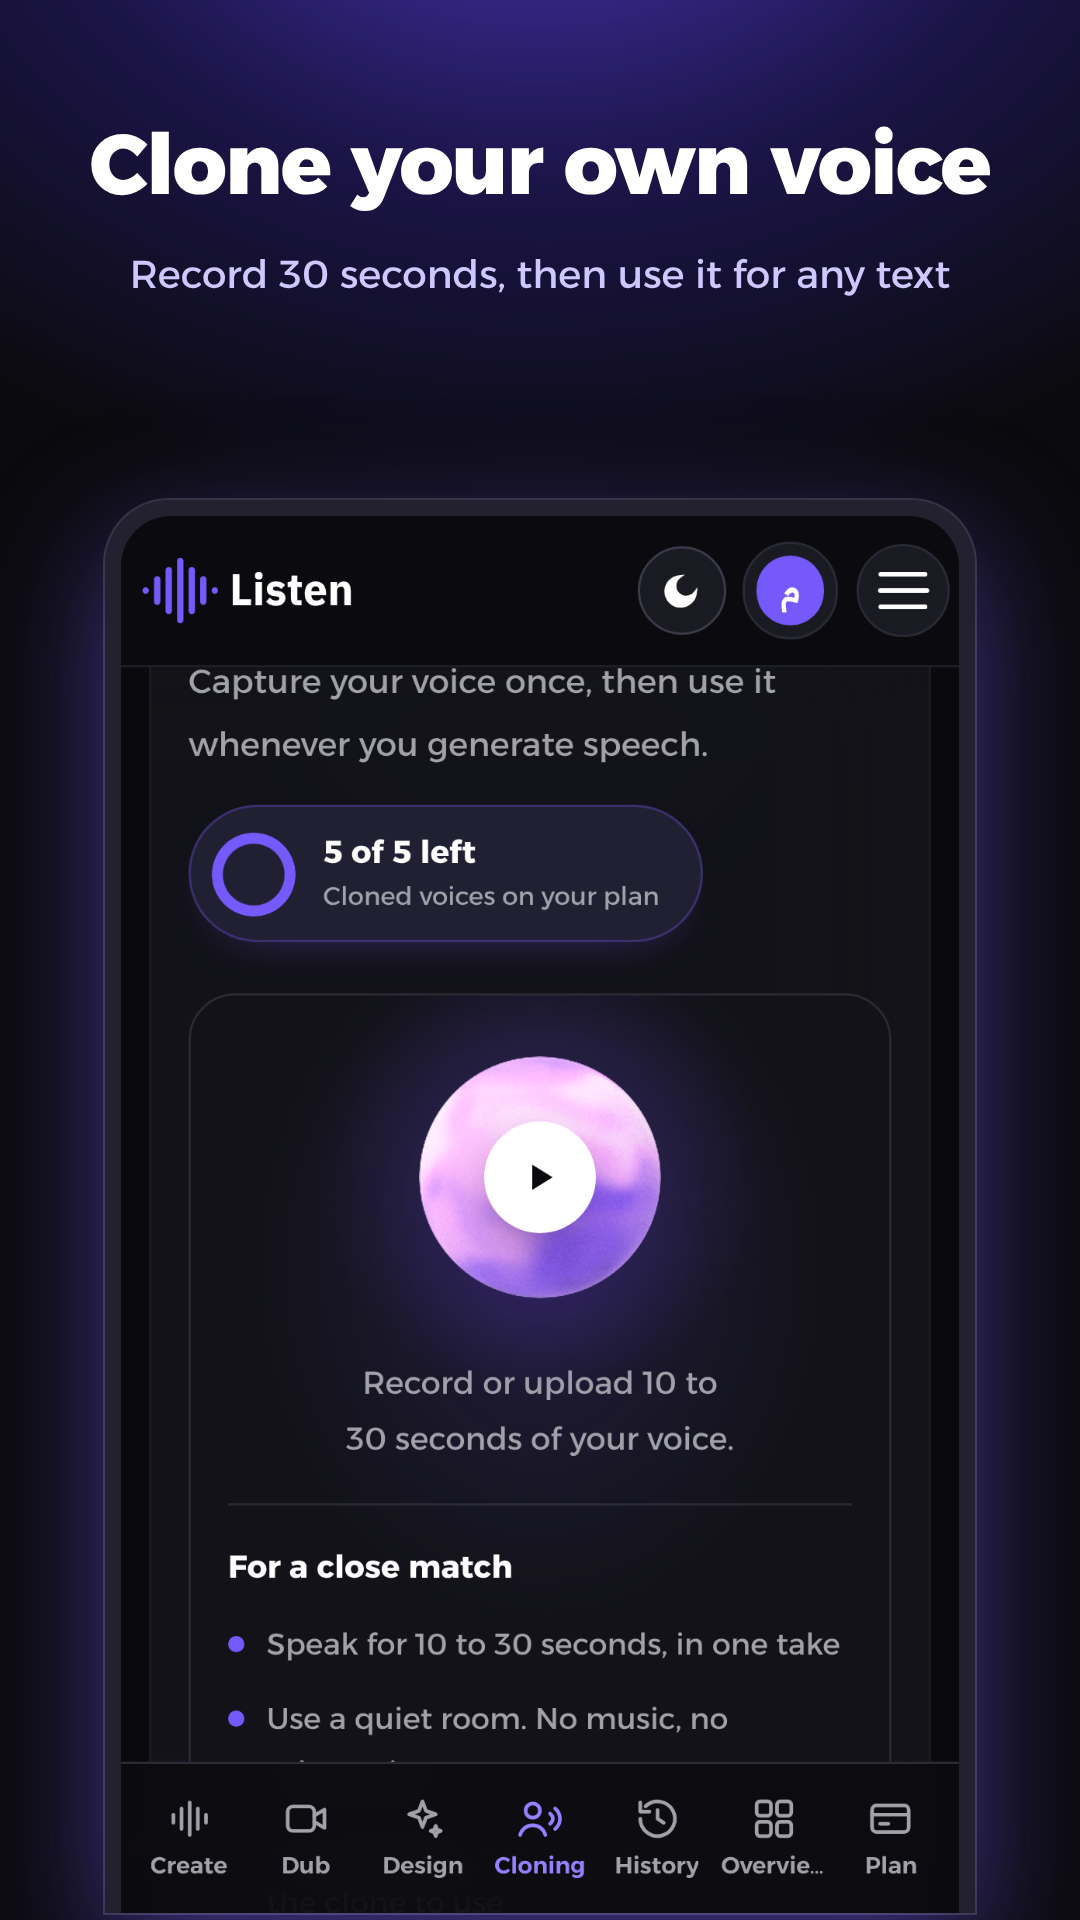
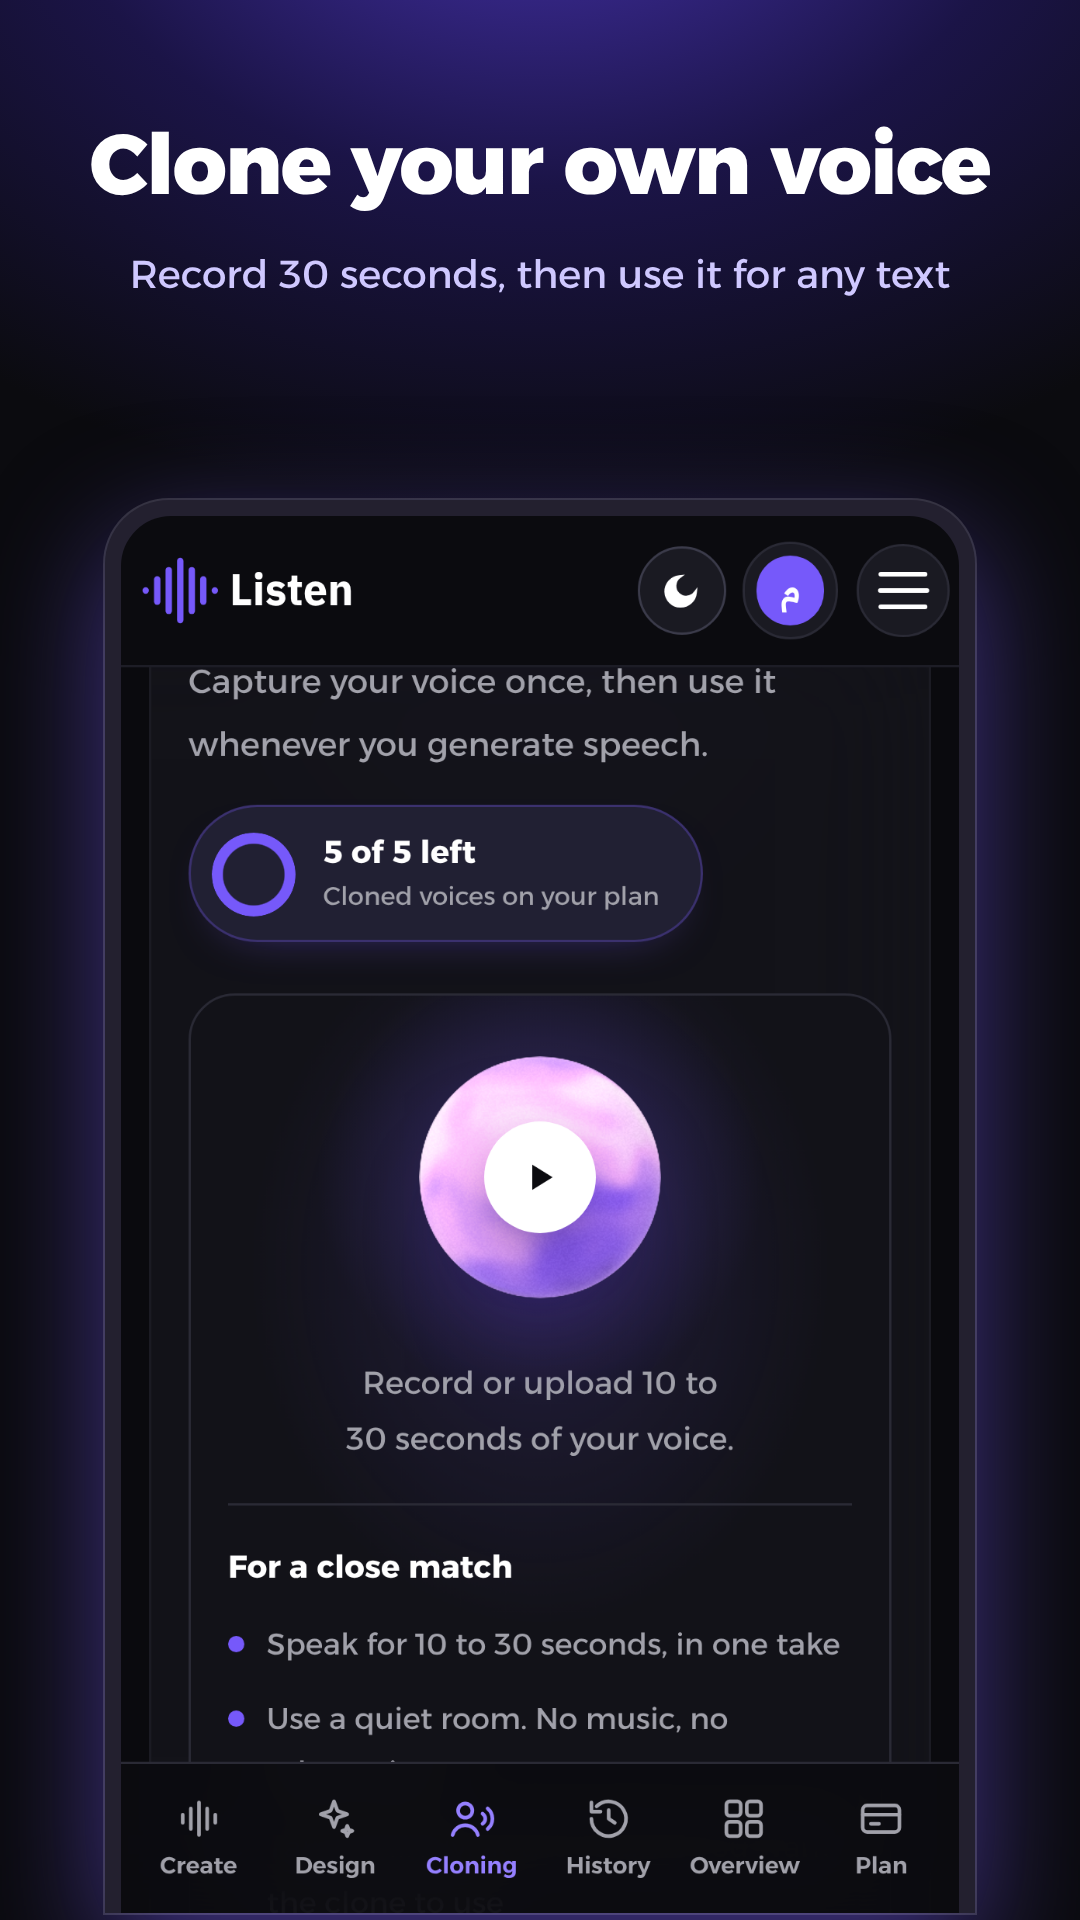
Store images and listing: voice design in place of video dubbing, which is not public on live
Claude-Session: https://claude.ai/code/session_01UnVKR1899agD5xicMbjeLp

Changed region(s): [[0.2444, 0.9375, 0.7639, 1.0], [0.7944, 0.9375, 0.8556, 1.0], [0.1528, 0.9375, 0.2139, 1.0]]

diff --git a/mobile/README.md b/mobile/README.md
@@ -180,12 +180,12 @@ No other company or product is named, and no price.
 • التحكم في الأداء: المشاعر، الأسلوب، السرعة، والوقفات
 • حوارات بأكثر من صوت
 • استنساخ صوتك من تسجيل قصير (في الباقات التي تشمله)
-• دبلجة الفيديو مع الحفاظ على الموسيقى والمؤثرات (في الباقات التي تشمله)
+• تصميم أي صوت بوصفه في جملة (في الباقات التي تشمله)
 • وكلاء صوتيون يردّون على عملائك بلهجتهم
 
 في التطبيق:
 • استمع والشاشة مغلقة، وتحكّم من شاشة القفل
-• إشعار عندما يجهز صوتك الطويل أو الفيديو المدبلج
+• إشعار عندما يجهز صوتك الطويل
 • احفظ الملف على هاتفك أو شاركه مباشرة مع أي تطبيق
 • سجّل صوتك بالميكروفون
 • عربي وإنجليزي، وضع فاتح وداكن
@@ -205,12 +205,12 @@ What you can do:
 • Direct the performance: emotion, style, pace and pauses
 • Dialogues with more than one voice
 • Clone your own voice from a short recording (on plans that include it)
-• Dub a video while keeping its music and effects (on plans that include it)
+• Design any voice by describing it in a sentence (on plans that include it)
 • Voice agents that answer your customers in their dialect
 
 In the app:
 • Keep listening with the screen off, with controls on the lock screen
-• A notification when a long voice or a dubbed video is ready
+• A notification when a long voice is ready
 • Save the file to your phone or share it straight to any app
 • Record your voice with the microphone
 • Arabic and English, light and dark
@@ -229,7 +229,8 @@ Privacy: https://listenai.studio/en/privacy-policy
   - `feature-ar-1024x500.png` and `feature-en-1024x500.png`: the feature graphic for each language.
   - `phone-ar-1…8.png` and `phone-en-1…8.png`: eight phone screenshots (1080×1920) for each
     language, in this order: the studio, Arabic dialects, English accents, emotions, voice
-    cloning, dubbing, voice agents, voices in more languages. They are made from the real
+    cloning, voice design, voice agents, voices in more languages. (Video dubbing is not
+    public on the live site, so it is not in the images or the listing text; add it when it is.) They are made from the real
     pages and show no price. Screen 8 shows the French, Spanish, German and other voices of
     the samples page: leave it out if members cannot generate in those languages yet.
 
@@ -257,7 +258,7 @@ does not count as sharing). "Processed ephemerally": no.
 | Personal info → Phone number (only if phone sign-in is on) | Account management | Optional |
 | Location → Approximate location (the country, from the network address) | Fraud prevention and security, analytics | Required |
 | Audio → Voice or sound recordings (voice cloning samples, calls with an agent) | App functionality | Optional |
-| Photos and videos → Videos (a video sent for dubbing) | App functionality | Optional |
+| Photos and videos → Videos (a video sent for dubbing; tick this only once dubbing is public) | App functionality | Optional |
 | App activity → Other user-generated content (the texts turned into speech) | App functionality | Required |
 | Device or other IDs (the notification token of this phone) | App functionality | Optional |
 
